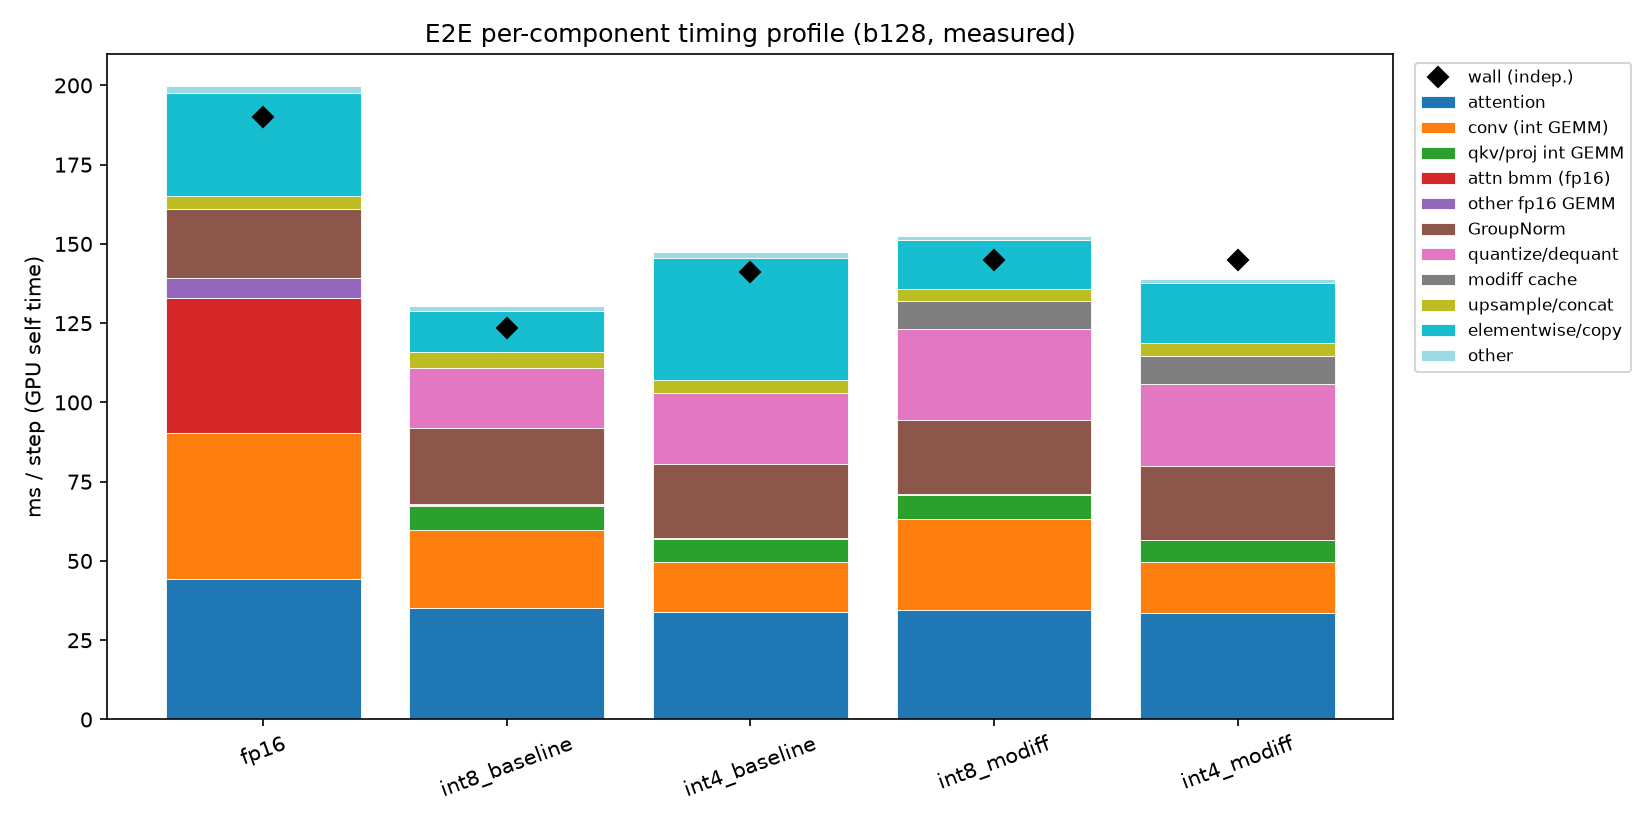
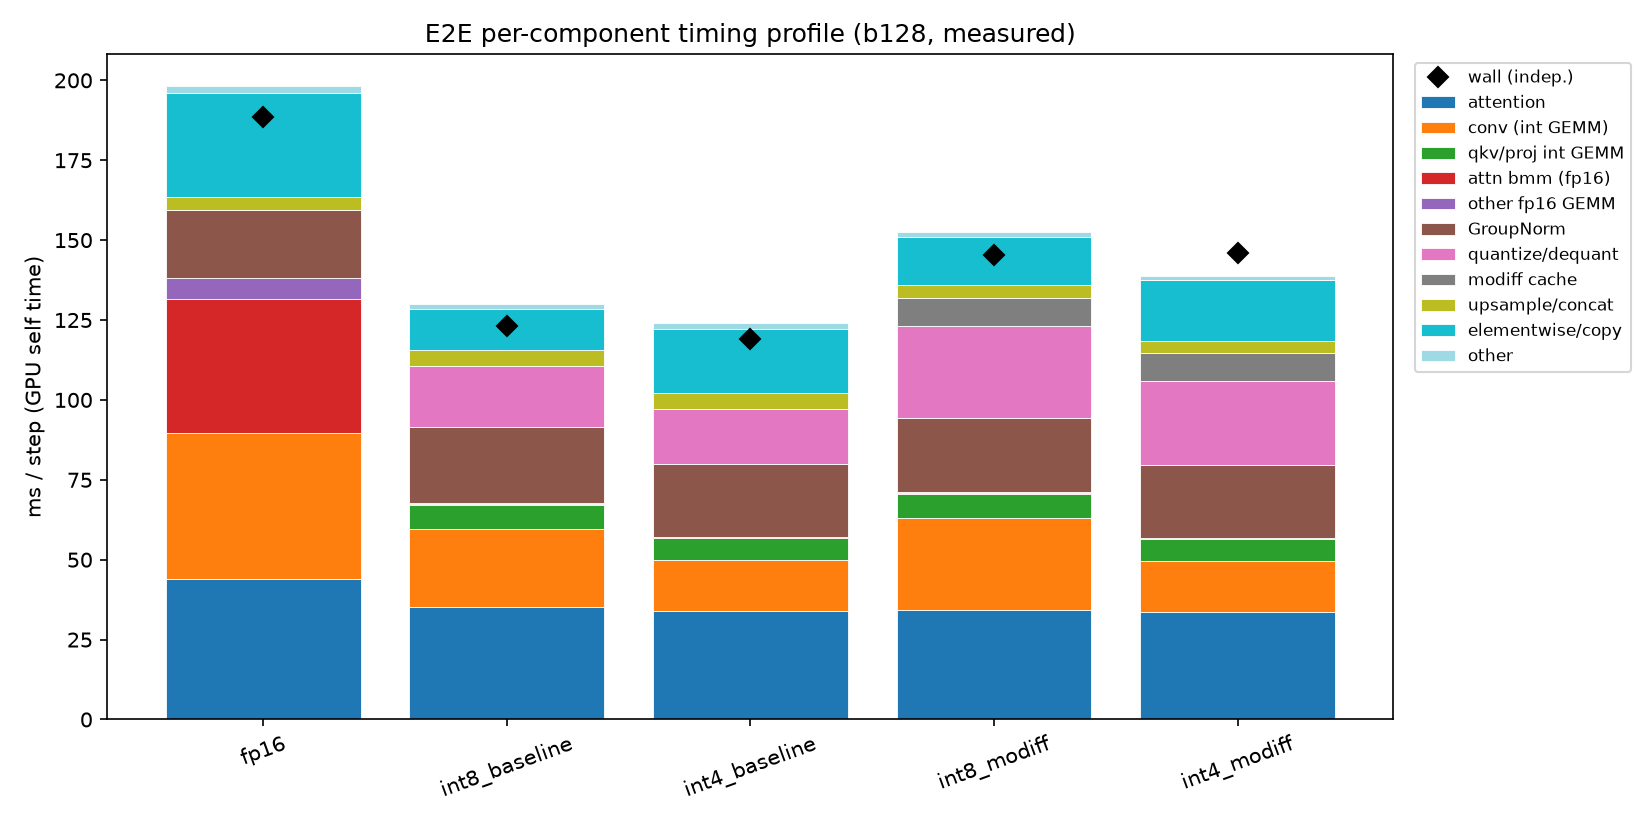
int4 conv deep-fusion: route SmoothQuant convs through the fused GN->conv path (int4 1.34x -> 1.58x)
int4_baseline was slower than int8 e2e (141.7 vs 124.7 ms) because every int4 conv fell back to an
eager path — SmoothQuant `x*smooth_inv` multiply -> separate quantize+pack -> bias-only store -> eager
residual add. Cause: _prequant_common_ok excluded SmoothQuant convs (non-identity _smooth_inv, which
int4 uses) from the fused GN->conv path, even though the fused group_norm_silu_quantize[_pack]_nhwc
kernel already applies a per-channel smooth_inv before the quantize.

Fix (Python-only, no kernel change), in integration/fused_ops/fused_resblock.py:
- drop the _smooth_is_identity gate from _prequant_common_ok
- pass the conv's real smooth_inv into the fused GN->quantize kernel in _prequant_gn_conv
  (int8 stays identity/empty -> unchanged)

int4 now uses the same deep-fused path as int8 (GN+SiLU+SmoothQuant+quantize+pack in one kernel ->
conv2d_int4_fprop_no_ohat_prealloc_bias_residual with fused dequant+bias+residual store). All 1240
int4 convs now fuse (was 0); output bit-identical (rel-L2 = 0).

e2e (b128, A40, 200 steps): int4_baseline 141.7 -> 119.9 ms, 1.34x -> 1.58x (now the fastest mode,
edging int8_baseline 1.53x). timing profile: int4 elementwise 38.7->20.0, quantize 22.4->17.3,
gpu_busy 147.6->124.1 ms. Report + figures updated in docs/benchmark_5mode_2026-07-20/.

diff --git a/integration/fused_ops/fused_resblock.py b/integration/fused_ops/fused_resblock.py
@@ -136,9 +136,13 @@ def _prequant_common_ok(conv):
 
     Baseline-only: the MoDiff modulated path (modiff_enabled=True) does an in-place
     a_hat cache update inside its quantize that a fused GN-emit would bypass and
-    corrupt, so we require modiff_enabled=False. SmoothQuant / grouped convs /
-    non-fp16 output all fall back to the exact path -- pure optimization, never a
-    correctness change.
+    corrupt, so we require modiff_enabled=False. Grouped convs / non-fp16 output fall
+    back to the exact path -- pure optimization, never a correctness change.
+
+    SmoothQuant (non-identity _smooth_inv, used by int4) is NOT excluded: the fused
+    group_norm_silu_quantize[_pack]_nhwc kernel applies a per-channel smooth_inv before
+    the quantize (see _prequant_gn_conv), so it is folded into the fused path rather
+    than paying an eager `x * smooth_inv` multiply + separate quantize.
     """
     return (
         getattr(conv, 'is_calibrated', False)
@@ -146,7 +150,6 @@ def _prequant_common_ok(conv):
         and getattr(conv, 'standard_output_fp16', False)
         and getattr(conv, 'use_cutlass', False)
         and getattr(conv, 'groups', 1) == 1
-        and getattr(conv, '_smooth_is_identity', False)
     )
 
 
@@ -179,7 +182,13 @@ def _prequant_gn_conv(x, gn, conv, mod_scale=None, mod_shift=None, residual=None
     w, b = gn._cast_params(x.dtype)
     conv._ensure_conv_caches(x.device)
     scale = conv._cached_scale_tensor          # fp32 [1], =static_input_scale
-    smooth_inv = conv._empty_smooth            # empty -> identity
+    # SmoothQuant: fold the per-channel smooth_inv into the fused GN->quantize kernel
+    # (it applies `out *= smooth_inv[c]` before the quantize), matching the eager
+    # `x * smooth_inv` the standard path would otherwise pay. int8 is identity -> empty.
+    if getattr(conv, '_smooth_is_identity', True):
+        smooth_inv = conv._empty_smooth        # empty -> identity
+    else:
+        smooth_inv = conv._smooth_inv.view(-1).to(torch.float32).contiguous()
     N, C = x.size(0), x.size(1)
     native_ok = (
         x.is_cuda

diff --git a/docs/benchmark_5mode_2026-07-20/REPORT.md b/docs/benchmark_5mode_2026-07-20/REPORT.md
@@ -39,16 +39,26 @@ Scripts: `scripts/{e2e_speed,e2e_timing_profile,nsys_driver,parse_nsys_mem,conv_
 
 | mode | ms/step | vs true fp16 |
 |---|--:|--:|
-| fp16 | 190.4 | 1.00× |
-| **int8_baseline** | **124.7** | **1.53×** |
-| int4_baseline | 141.7 | 1.34× |
-| int8_modiff | 145.9 | 1.31× |
-| int4_modiff | 143.0 | 1.33× |
+| fp16 | 189.7 | 1.00× |
+| int8_baseline | 124.4 | 1.53× |
+| **int4_baseline** | **119.9** | **1.58×** |
+| int8_modiff | 146.2 | 1.30× |
+| int4_modiff | 143.7 | 1.32× |
 
-**int8_baseline = 1.53× vs true fp16** — the flash-only refactor exactly holds the pre-removal headline.
-int4_baseline is 1.34× (its conv/linear are cheaper but attention uses the same int8 flash + a heavier
-quantize). The modiff temporal-cache variants are **slower** than their baselines (int8 1.31× vs 1.53×):
-the a_hat/o_hat delta-quantize + accumulate costs more than it saves at b128.
+**int4_baseline = 1.58× vs true fp16 — the fastest mode** — after the int4 conv **deep-fusion fix**
+(see below), int4 now edges out int8 (1.53×), the expected 4-bit ordering. int8_baseline = 1.53× holds
+the flash-only refactor headline. The modiff temporal-cache variants are **slower** than their baselines
+(int8 1.30× vs 1.53×): the a_hat/o_hat delta-quantize + accumulate costs more than it saves at b128.
+
+> **int4 conv deep-fusion (2026-07-20).** int4_baseline was originally 141.7 ms (1.34×) — *slower* than
+> int8 — because every int4 conv fell back to an eager path (SmoothQuant `x*smooth_inv` multiply →
+> separate quantize+pack → bias-only store → eager residual add): `_prequant_common_ok` excluded
+> SmoothQuant convs from the fused GN→conv path. Since the fused `group_norm_silu_quantize_pack_nhwc`
+> kernel already supports a per-channel `smooth_inv`, wiring int4's smooth into it (Python-only change in
+> `integration/fused_ops/fused_resblock.py`) routes int4 through the same deep-fused path as int8
+> (GN+SiLU+SmoothQuant+quantize+pack in one kernel → `conv2d_int4_fprop_no_ohat_prealloc_bias_residual`
+> with fused dequant+bias+residual store). Result: **141.7 → 119.9 ms (1.34× → 1.58×), −22 ms, output
+> bit-identical (rel-L2 = 0).**
 
 ![e2e speed](figs/fig_e2e_speed.png)
 
@@ -70,23 +80,25 @@ Measured GPU self-time (ms/step), key buckets:
 
 | bucket | fp16 | int8_baseline | int4_baseline | int8_modiff | int4_modiff |
 |---|--:|--:|--:|--:|--:|
-| attention (flash / softmax) | 44.2 | 35.2 | 33.8 | 34.4 | 33.7 |
-| attn bmm fp16 (QKᵀ/AV) | 42.5 | 0.2 | 0.2 | 0.2 | 0.2 |
-| conv | 46.3 | 24.6 | 16.0 | 28.8 | 15.8 |
+| attention (flash / softmax) | 44.0 | 35.1 | 33.8 | 34.4 | 33.7 |
+| attn bmm fp16 (QKᵀ/AV) | 42.2 | 0.2 | 0.2 | 0.2 | 0.2 |
+| conv | 45.5 | 24.5 | **16.0** | 28.8 | 15.8 |
 | qkv/proj int GEMM | 0.0 | 7.7 | 7.0 | 7.6 | 7.0 |
-| GroupNorm | 21.6 | 24.0 | 23.4 | 23.4 | 23.1 |
-| quantize/dequant | 0.0 | 19.1 | 22.4 | 28.7 | 26.1 |
+| GroupNorm | 21.4 | 23.9 | 22.8 | 23.3 | 23.1 |
+| quantize/dequant | 0.0 | 19.1 | **17.3** | 28.7 | 26.1 |
 | modiff cache | 0.0 | 0.0 | 0.0 | 8.7 | 8.7 |
-| elementwise/copy | 32.6 | 12.8 | 38.7 | 15.2 | 19.0 |
-| upsample/concat + other fp16 GEMM + other | 12.6 | 7.1 | 6.1 | 6.9 | 5.5 |
-| **gpu_busy** | 199.8 | 130.4 | 147.6 | 152.6 | 138.9 |
-| **wall** | 190.0 | 123.3 | 141.0 | 145.0 | 144.9 |
+| elementwise/copy | 32.6 | 12.8 | **20.0** | 15.2 | 18.9 |
+| upsample/concat + other fp16 GEMM + other | 12.5 | 6.9 | 7.0 | 5.8 | 5.5 |
+| **gpu_busy** | 198.2 | 130.0 | **124.1** | 152.6 | 138.9 |
+| **wall** | 188.5 | 123.0 | **119.2** | 145.3 | 146.0 |
 
-Where the int8 win comes from: **attention ≈ 86.6 ms in fp16** (44.2 softmax + 42.5 fp16 QKᵀ/AV bmm)
+Where the int8 win comes from: **attention ≈ 86.2 ms in fp16** (44.0 softmax + 42.2 fp16 QKᵀ/AV bmm)
 collapses to **≈ 35 ms** with fused-flash int8 (one bucket, bmm ≈ 0); **conv 46 → 25 ms**. The cost added
-back is the **quantize/dequant** prologue (~19 ms int8) and, for modiff, the **~8.7 ms cache**. gpu_busy
-slightly exceeds wall because profiled per-kernel time double-counts nothing but omits overlap — treat it
-as the device-time composition, not an additive wall.
+back is the **quantize/dequant** prologue (~19 ms int8) and, for modiff, the **~8.7 ms cache**.
+**int4 after the deep-fusion fix** is now cheaper than int8 in every compute bucket (conv 16.0, quantize
+17.3, elementwise collapsed 38.7→20.0), giving the fastest gpu_busy (124.1 ms). gpu_busy slightly exceeds
+wall because profiled per-kernel time omits kernel overlap — treat it as the device-time composition, not
+an additive wall.
 
 ![e2e timing profile](figs/fig_e2e_timing_profile.png)
 
@@ -179,8 +191,9 @@ traffic scales with precision (int8 ≈ ½, int4 ≈ ¼ the fp16 operand bytes) 
 
 ## Takeaways
 
-1. **The flash-only refactor holds the headline: int8 e2e = 1.53× vs true fp16** (int4 1.34×), reproducing
-   the pre-removal number exactly. The materialized attention path was dead weight; flash is sufficient.
+1. **int4_baseline = 1.58× vs true fp16 (fastest), int8_baseline = 1.53×.** The flash-only refactor holds
+   the int8 headline; the int4 conv deep-fusion fix (SmoothQuant folded into the fused GN→conv kernel)
+   lifted int4 from 1.34× → 1.58×, so 4-bit is now correctly the fastest mode (bit-identical output).
 2. **The e2e win is attention + conv, not memory movement.** The timing profile shows fp16 attention
    (~86 ms, softmax + fp16 bmm) collapsing to ~35 ms fused-flash int8, plus conv 46→25 ms; the quantize
    prologue (~19 ms) and modiff cache (~9 ms) are the costs paid back.
